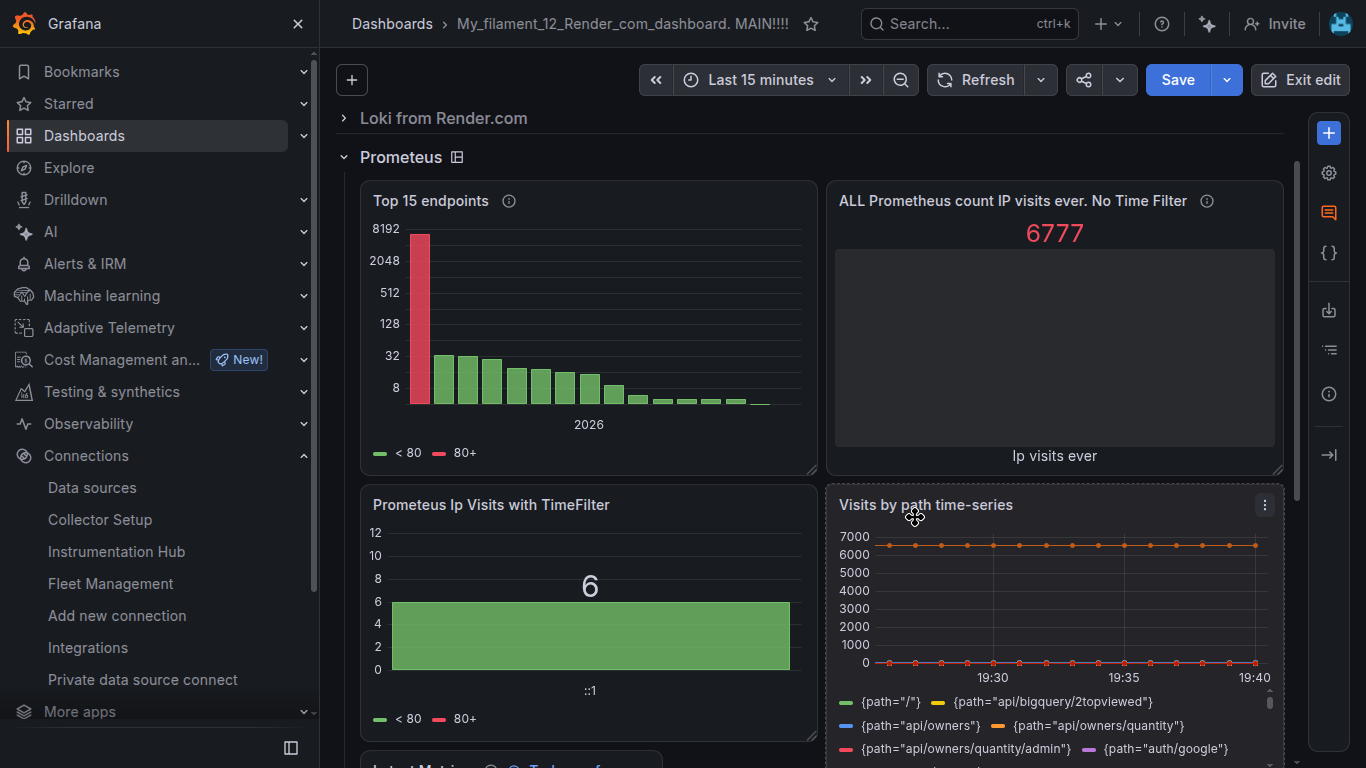
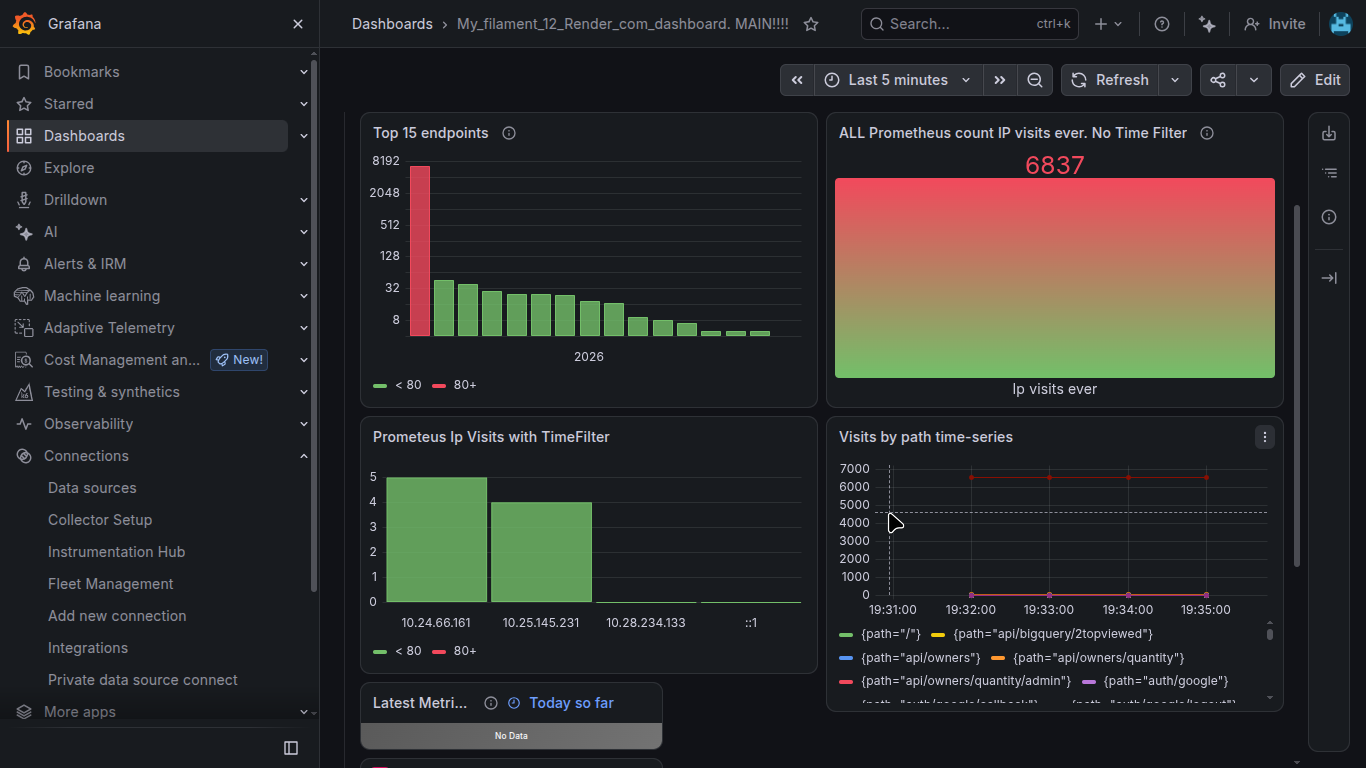
Minor changes

diff --git a/README.md b/README.md
@@ -760,7 +760,7 @@ One-time link uses middleware '/Middleware/CheckOneTimeToken' registered in /con
 
 ## 19. Jobs
 
-1. DB for jobs should exist (if you use QUEUE_CONNECTION=database)
+1. DB table for jobs should exist (if you use QUEUE_CONNECTION=database)
 <code> php artisan queue:table   php artisan migrate </code>
 
 Optional:
@@ -781,7 +781,7 @@ php artisan queue:work   //only processes queued jobs — it does not trigger sc
                          //starts a worker that listens for new jobs on the queue and executes them in real-time.
 </code>
 
-
+Update: now we use Horizon + Redis for queued jobs. See => Horizon section
 
 
 
@@ -1045,7 +1045,7 @@ Render.com set up:
 <p> 2. Create external sql db at alwaysdata,com, as native render.com  DB will be erased in 30 days </p>
 <p> 3. Create redis instance at render.com. Render Redis service is created via => '+ New' => 'Key Value'. NB: As it is Render Free Tier disk does not persist, resets data</p>
 
-<p> 4. Fix 1: Disable redis for production as it crashes, in /botstrap/app.hp. UPDATE: it was fixed
+<p> 4. Fix 1: Disable redis for production as it crashes, in /botstrap/app.hp. UPDATE: it was fixed, Redis is runnung.
  <code>
    // Prometheus metrics middleware
         $env = getenv('APP_ENV') ?: 'production';
@@ -1099,12 +1099,12 @@ ALGOLIA_SECRET=your_write_api_key #SECRET
 </code>
 
 
-<p> 6. Add json keys Google bigQuery, etc 
+<p> 6. Add json keys Google bigQuery, Google cloud images storage, etc <br>
 
-add json files 'app/gcs/service-account.json' and  'storage/app/bigQuery_keys/laravel-bigquery-8****f.json' to Render as Secret Files and since in Render they go in root folder (unlike local), add fixed var to render env
+add json files 'app/gcs/service-account.json' and  'storage/app/bigQuery_keys/laravel-bigquery-8****f.json' to Render.com as Secret Files and since in Render they go in root folder (unlike local), add fixed var to render env:
 
 <code>
-GOOGLE_CLOUD_KEY_FILE=service-account.json .
+GOOGLE_CLOUD_KEY_FILE=service-account.json .  # Google cloud images storage
 BIGQUERY_KEY_FILE=laravel-bigquery-8****f.json 
 </code>
 </p>
@@ -1117,7 +1117,7 @@ BIGQUERY_KEY_FILE=laravel-bigquery-8****f.json
 
 <p> 8.Cant run migrations in Pre-Deploy Command at Render dashboard as it is paid option, so add it to Dockerfile for Render.</p>
 
-<p> 9. Implement Queue Jobs: to run queue jobs add to your /docker_db_setup/render.com/Dockerfile command "php artisan horizon" OR "php artisan queue:work". NB: it is bad practice, good practice - you should create a new instance where u run the command "php artisan horizon", but it will take free tier limits</p>
+<p> 9. Implement Queue Jobs: to run queue jobs add to your /docker_db_setup/render.com/Dockerfile command "php artisan horizon" OR "php artisan queue:work". NB: it is bad practice, good practice - you should create a new duplicate docker instance where u run the command "php artisan horizon", but it will take free tier limits</p>
 
 <p> 10. Implement job supervisor: cant do this as server on free tier sleeps after inactivity </p>
 
@@ -1157,8 +1157,14 @@ If you use Horizon, instead of "php artisan queue:work" you may just run "php ar
 1. <code> composer require laravel/horizon  </code>
 2. <code> php artisan horizon:install       </code> publish config file → config/horizon.php, Publish migration for failed_jobs
 3. <code>  php artisan migrate </code>
-4. In .env =>  QUEUE_CONNECTION=redis
-5. <code>  php artisan horizon</code>
+4. In .env => 
+   <code>
+    QUEUE_CONNECTION=redis  
+    REDIS_HOST=redis REDIS_PORT=6** #set up for local
+    REDIS_URL=null #set up for local
+    #REDIS_URL=redis://red-d5****** #set up for prod at Render.com
+    </code>
+5. To start => <code>  php artisan horizon </code>
 6. Dashboard =>   http://localhost:8000/horizon
 7. On live production allow access in app/Providers/HorizonServiceProvider.php:
  <code>
@@ -1172,7 +1178,14 @@ public function boot()     // OR protected function gate()
     });
 }
 </code>
-On local host we create Redis container, on production at Render.com we use Cloud Redis from Render.com
+On local host we create Redis Docker container, On production at Render.com we use Cloud Redis from Render.com and providing REDIS_URL in .env. Render Redis service is created via => '+ New' => 'Key Value'. NB: As it is Render Free Tier disk does not persist, resets data <br> .
+How enable <code>php artisan horizon</code> on Render see => Deploy at Render
+
+
+
+
+
+
 
 
 <p> ----------------------------------------------------------------------------------------- </p>
@@ -1392,11 +1405,11 @@ The Metrics Endpoint integration collects the metrics; your Grafana panel querie
 a. Make sure /metrics is publicly accessible or has basic auth (our case) <br> 
 b. In Grafana Cloud => Connections => Add new connection => Metrics Endpoint => Create the scrape job  'my_scrape_job_from_larafilament_metrics_endpoint' =>  set 'Scrape Job URL', scrape time interval, Basic Auth username, password<br>
 ND: currently scrape job is disabled not to consume Instance minutes at Render.com<br>
-Later you can find this scarpe job to enable/disable at => Integrations -> Metrics Endpoint -> my_scrape_job_from_larafilament_metrics_endpoint <br>
+Later you can find this scarpe job to enable/disable at Connections => Integrations -> Metrics Endpoint -> my_scrape_job_from_larafilament_metrics_endpoint <br>
 How to use it in this limited mode? Go to your render web application to wake it up => visit some pages to get /metrics =>  enable scape job at Grafana  for several minutes.
 <br>
 
-c. Create panel, datasource is => Prometeus icon type => grafanacloud-account931-prom. Then in Metrics browser for e.g:
+c. Create panel, datasource is => Prometeus icon type => grafanacloud-account931-prom. Then in Metrics browser for e.g: <br>
 
 "Top visited endpoints", i.e /login, /dashboartd, etc 
 NB: Important: to get results in format: (endpoint <=> visits_count), do: find "Options" below you PromL query and change "Format" to "Table" or "Time series" and "Type" to "Instant". When bar chart has one endpoint with a much larger value (6655) than the others (32, 19, etc.) use "Scale -> Logarithmic" to set better visibility.
@@ -1441,8 +1454,31 @@ GROUP BY product_id ORDER BY  total_views DESC  LIMIT  2 #50
 You can send Laravel logs directly to Loki without Promtail or Grafana Alloy.
 The cleanest approach is to create a custom Laravel Monolog handler that sends each log record to Loki's HTTP API. <br>
 Grafana Cloud includes hosted Loki, so you don't need to install Loki yourself. You can use Grafana Cloud Logs (Loki) and send your Laravel logs directly to its Loki HTTP API. You also don't need Docker, Promtail, or Grafana Alloy if you implement the direct HTTP integration in Laravel. Laravel → Grafana Cloud Loki → Grafana <br>
-Variant used: Laravel Monolog → OpenTelemetry Collector → Loki,<br>
 
+Variant_2 used: Laravel 12 → Monolog → OTLP/HTTP → OpenTelemetry Collector → Loki -> Grafana<br>
+
+
+1.Install the OpenTelemetry PHP packages: 
+<code>
+composer require open-telemetry/api open-telemetry/sdk
+composer require open-telemetry/api open-telemetry/sdk open-telemetry/exporter-otlp
+</code>
+
+2.Configure Laravel's logging channel to use a custom Monolog handler in config/logging.php:.
+<code>
+'channels' => [
+    'otel' => [
+        'driver' => 'monolog',
+        'handler' => App\Logging\OpenTelemetryHandler::class,
+        'level' => env('LOG_LEVEL', 'debug'),
+    ],],
+</code>
+
+3. Create app/Logging/OpenTelemetryHandler.php
+
+
+
+----------Delete below
 1. Create a Loki logging channel in config/logging.php:
 <code>
 'channels' => [
